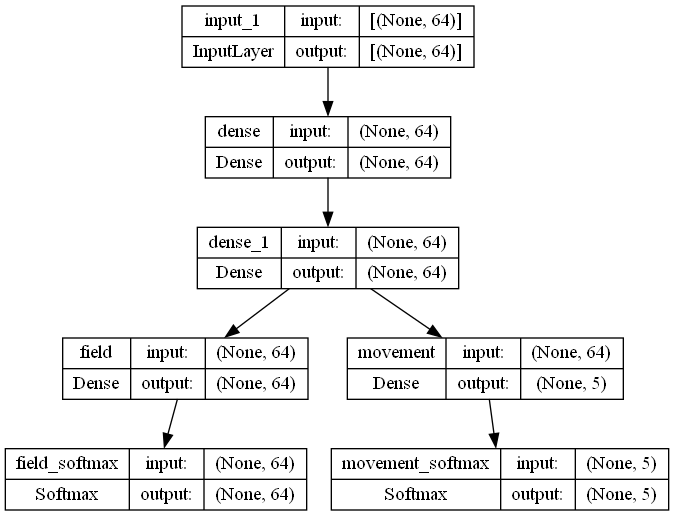
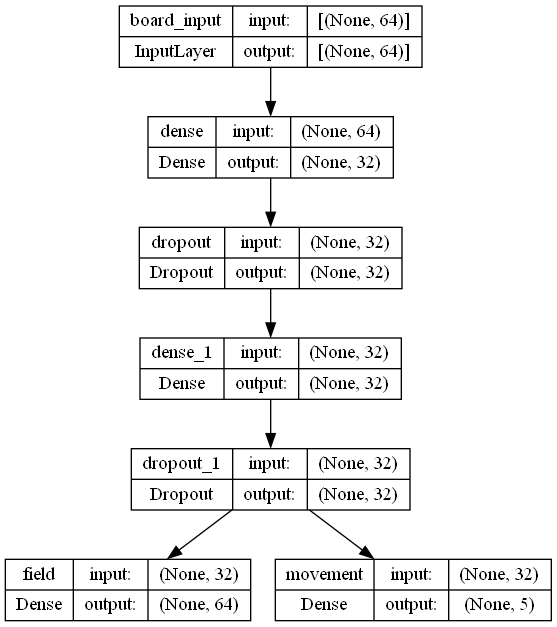
modified training data and updated epochs

Changed region(s): [[0.0, 0.0, 1.0, 0.9922]]

diff --git a/main.py b/main.py
@@ -1,4 +1,5 @@
 import matplotlib.pyplot as plt
+from keras import regularizers
 from matplotlib import pyplot as pp
 from PIL import Image
 import tensorflow as tf
@@ -48,15 +49,17 @@ print(*train_fig_moves_directions)
 
 train_fig_starts_tensor = tf.constant(train_fig_starts)
 
-inputs = tf.keras.layers.Input(shape=64)
-x = tf.keras.layers.Dense(64, activation="relu")(inputs)
-x = tf.keras.layers.Dense(64, activation="relu")(x)
+inputs = tf.keras.layers.Input(shape=64, name="board_input")
 
-out_field = tf.keras.layers.Dense(64, activation="relu", name="field")(x)
-out_field = tf.keras.layers.Softmax(name="field_softmax")(out_field)
+x = tf.keras.layers.Dense(32, activation="elu", kernel_regularizer=regularizers.l2(0.001))(inputs)
+x = tf.keras.layers.Dropout(0.5)(x)
+x = tf.keras.layers.Dense(32, activation="sigmoid", kernel_regularizer=regularizers.l2(0.001))(x)
+x = tf.keras.layers.Dropout(0.5)(x)
 
-out_movement = tf.keras.layers.Dense(5, activation="relu", name="movement")(x)
-out_movement = tf.keras.layers.Softmax(name="movement_softmax")(out_movement)
+out_field = tf.keras.layers.Dense(64,  name="field")(x)
+
+out_movement = tf.keras.layers.Dense(5, name="movement")(x)
+
 
 model = tf.keras.Model(inputs=inputs, outputs=[out_field, out_movement])
 
@@ -64,11 +67,15 @@ print(model.summary())
 tf.keras.utils.plot_model(model, to_file='model_plot.png', show_shapes=True, show_layer_names=True)
 
 model.compile(optimizer='adam',
-              loss=[tf.keras.losses.CategoricalCrossentropy(),
-                    tf.keras.losses.CategoricalCrossentropy()],
+              loss=[tf.keras.losses.CategoricalCrossentropy(from_logits=True),
+                    tf.keras.losses.CategoricalCrossentropy(from_logits=True)],
               metrics=['accuracy'])
 
-model.fit(train_fig_starts_tensor, [train_fig_moves_fields, train_fig_moves_directions], epochs=128)
+evaluation_fit_slice = 300
+
+model.fit(train_fig_starts_tensor[:evaluation_fit_slice],
+          [train_fig_moves_fields[:evaluation_fit_slice],
+           train_fig_moves_directions[:evaluation_fit_slice]], epochs=128)
 
 trainer = PawnChessTrainer()
 
@@ -76,11 +83,19 @@ trainer = PawnChessTrainer()
     trainer.draw_board(train_fig_starts[index])
     print(train_fig_moves[index])"""    # test display of training data
 
-boards = trainer.generate_multiple_random_boards(32, 8, 16)
+boards = trainer.generate_multiple_random_boards(16, 8, 8, included_fields=range(8, 64))
 boards.append([2, 2, 2, 2, 2, 2, 2, 2, 0, 0, 0, 0, 0, 0, 0, 0, 0, 0, 0, 0, 0, 0, 0, 0, 0, 0, 0, 0, 0, 0, 0, 0, 0, 0, 0, 0, 0, 0,
      0, 0, 0, 0, 0, 0, 0, 0, 0, 0, 0, 0, 0, 0, 0, 0, 0, 0, 1, 1, 1, 1, 1, 1, 1, 1])
+
+print("evaluation:")
+print(model.evaluate(train_fig_starts_tensor[evaluation_fit_slice:],
+                     [train_fig_moves_fields[evaluation_fit_slice:],
+                      train_fig_moves_directions[evaluation_fit_slice:]]))
+
+
 for board in boards:
     trainer.draw_board(board)
     out = model.predict([board])
     print([np.argmax(out[0]), np.argmax(out[1])])
-    sleep(6)
+    pp.pause(5)
+
